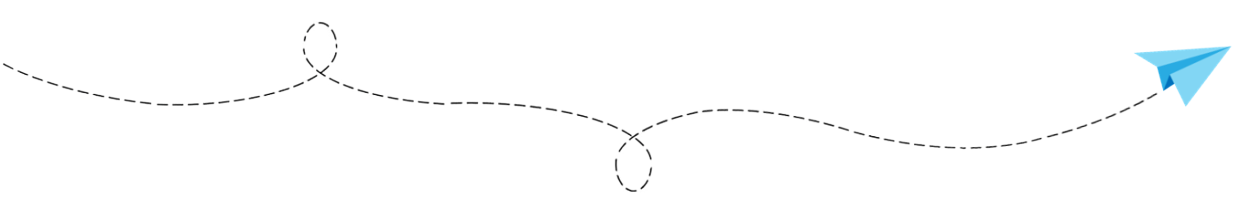
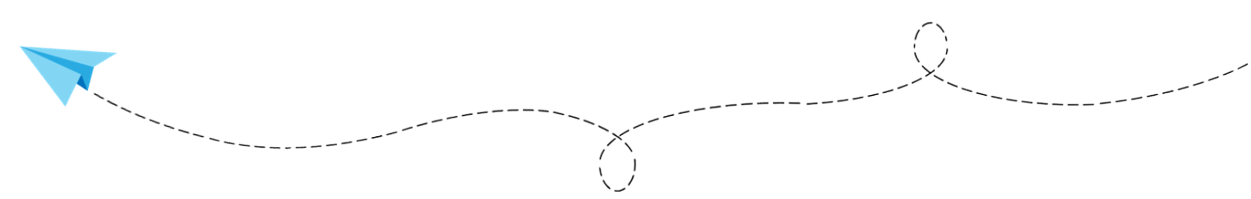
css edits

diff --git a/v2StyleSheet.css b/v2StyleSheet.css
@@ -81,7 +81,7 @@
     float: left;
     top: 0;
     left: 0;
-    margin-top: 2.45em;
+    margin-top: .5em;
     margin-left: .2em; 
     font-family: Georgia, Serif;
     font-size: 123px;
@@ -158,15 +158,16 @@
 /*figure styling*/
   #gg {
     float: left;
-    margin-top: -2em;
+    margin-top: -2.15em;
     margin-left: 0em;
-    width: 30%;
+    margin-bottom: -1.5em;
+    width: 50%;
   }
   #paper-plane {
-    margin-bottom: 1em;
-    margin-left: -1em;
-    margin-top: -.5em;;
-    width: 65%;
+    margin-left: 48em;
+    margin-bottom: 2em;
+    margin-top: -9em;;
+    width: 55%;
   }
   #mountain {
     width: 98%;
